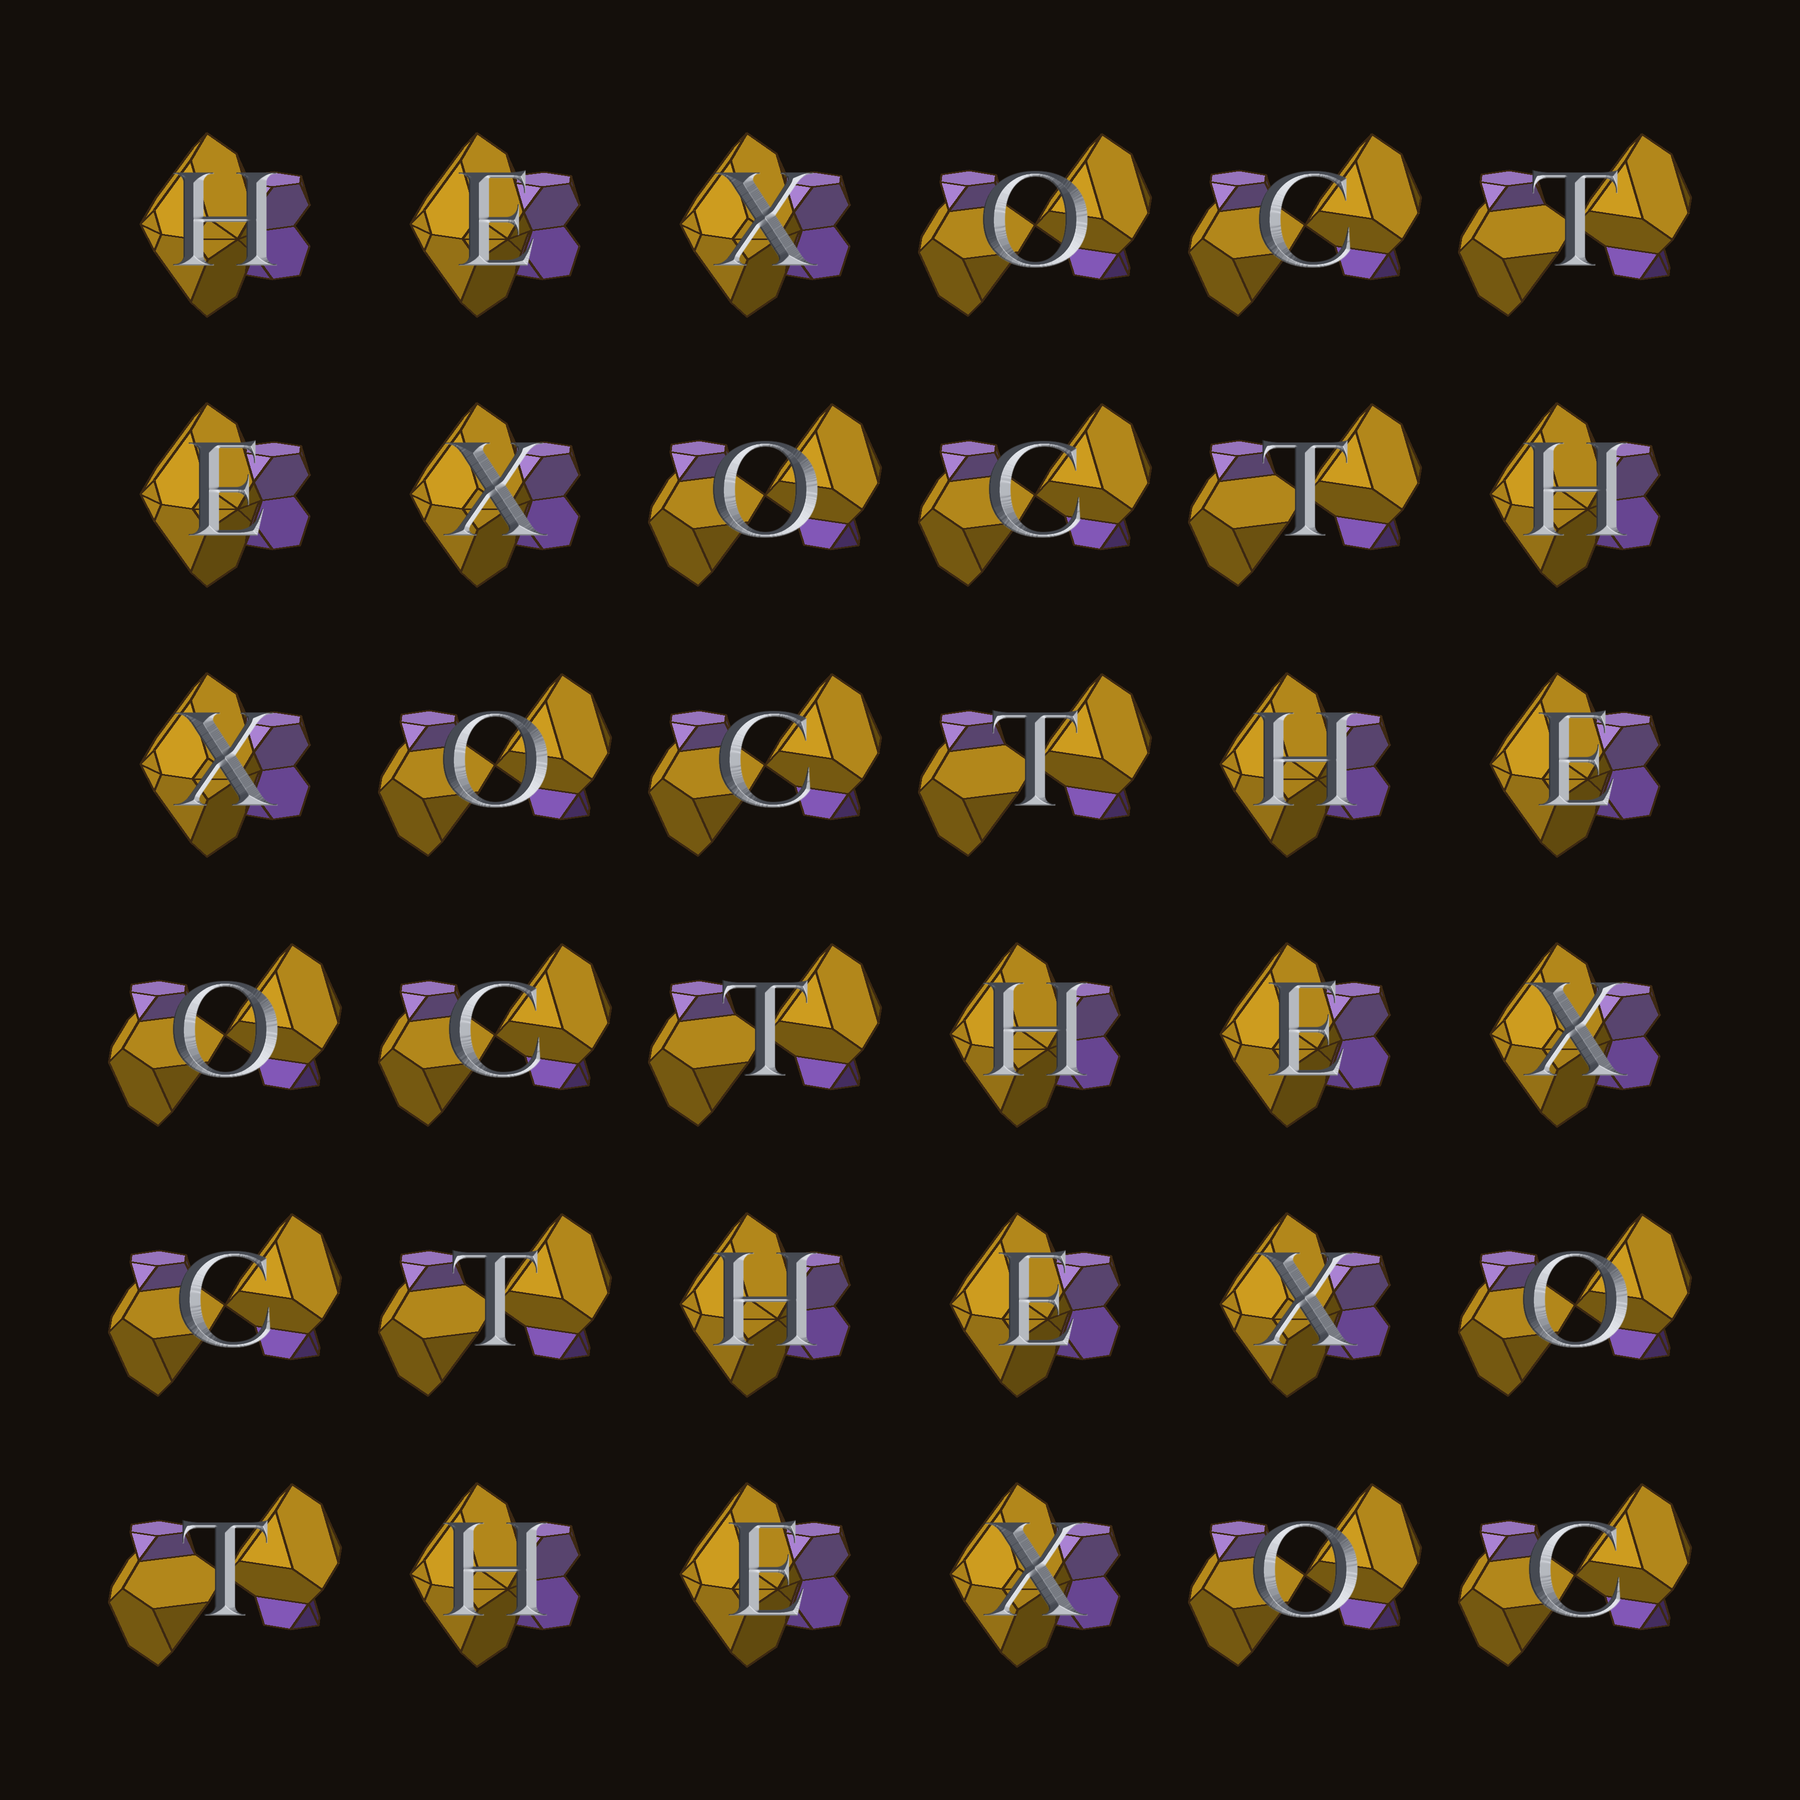
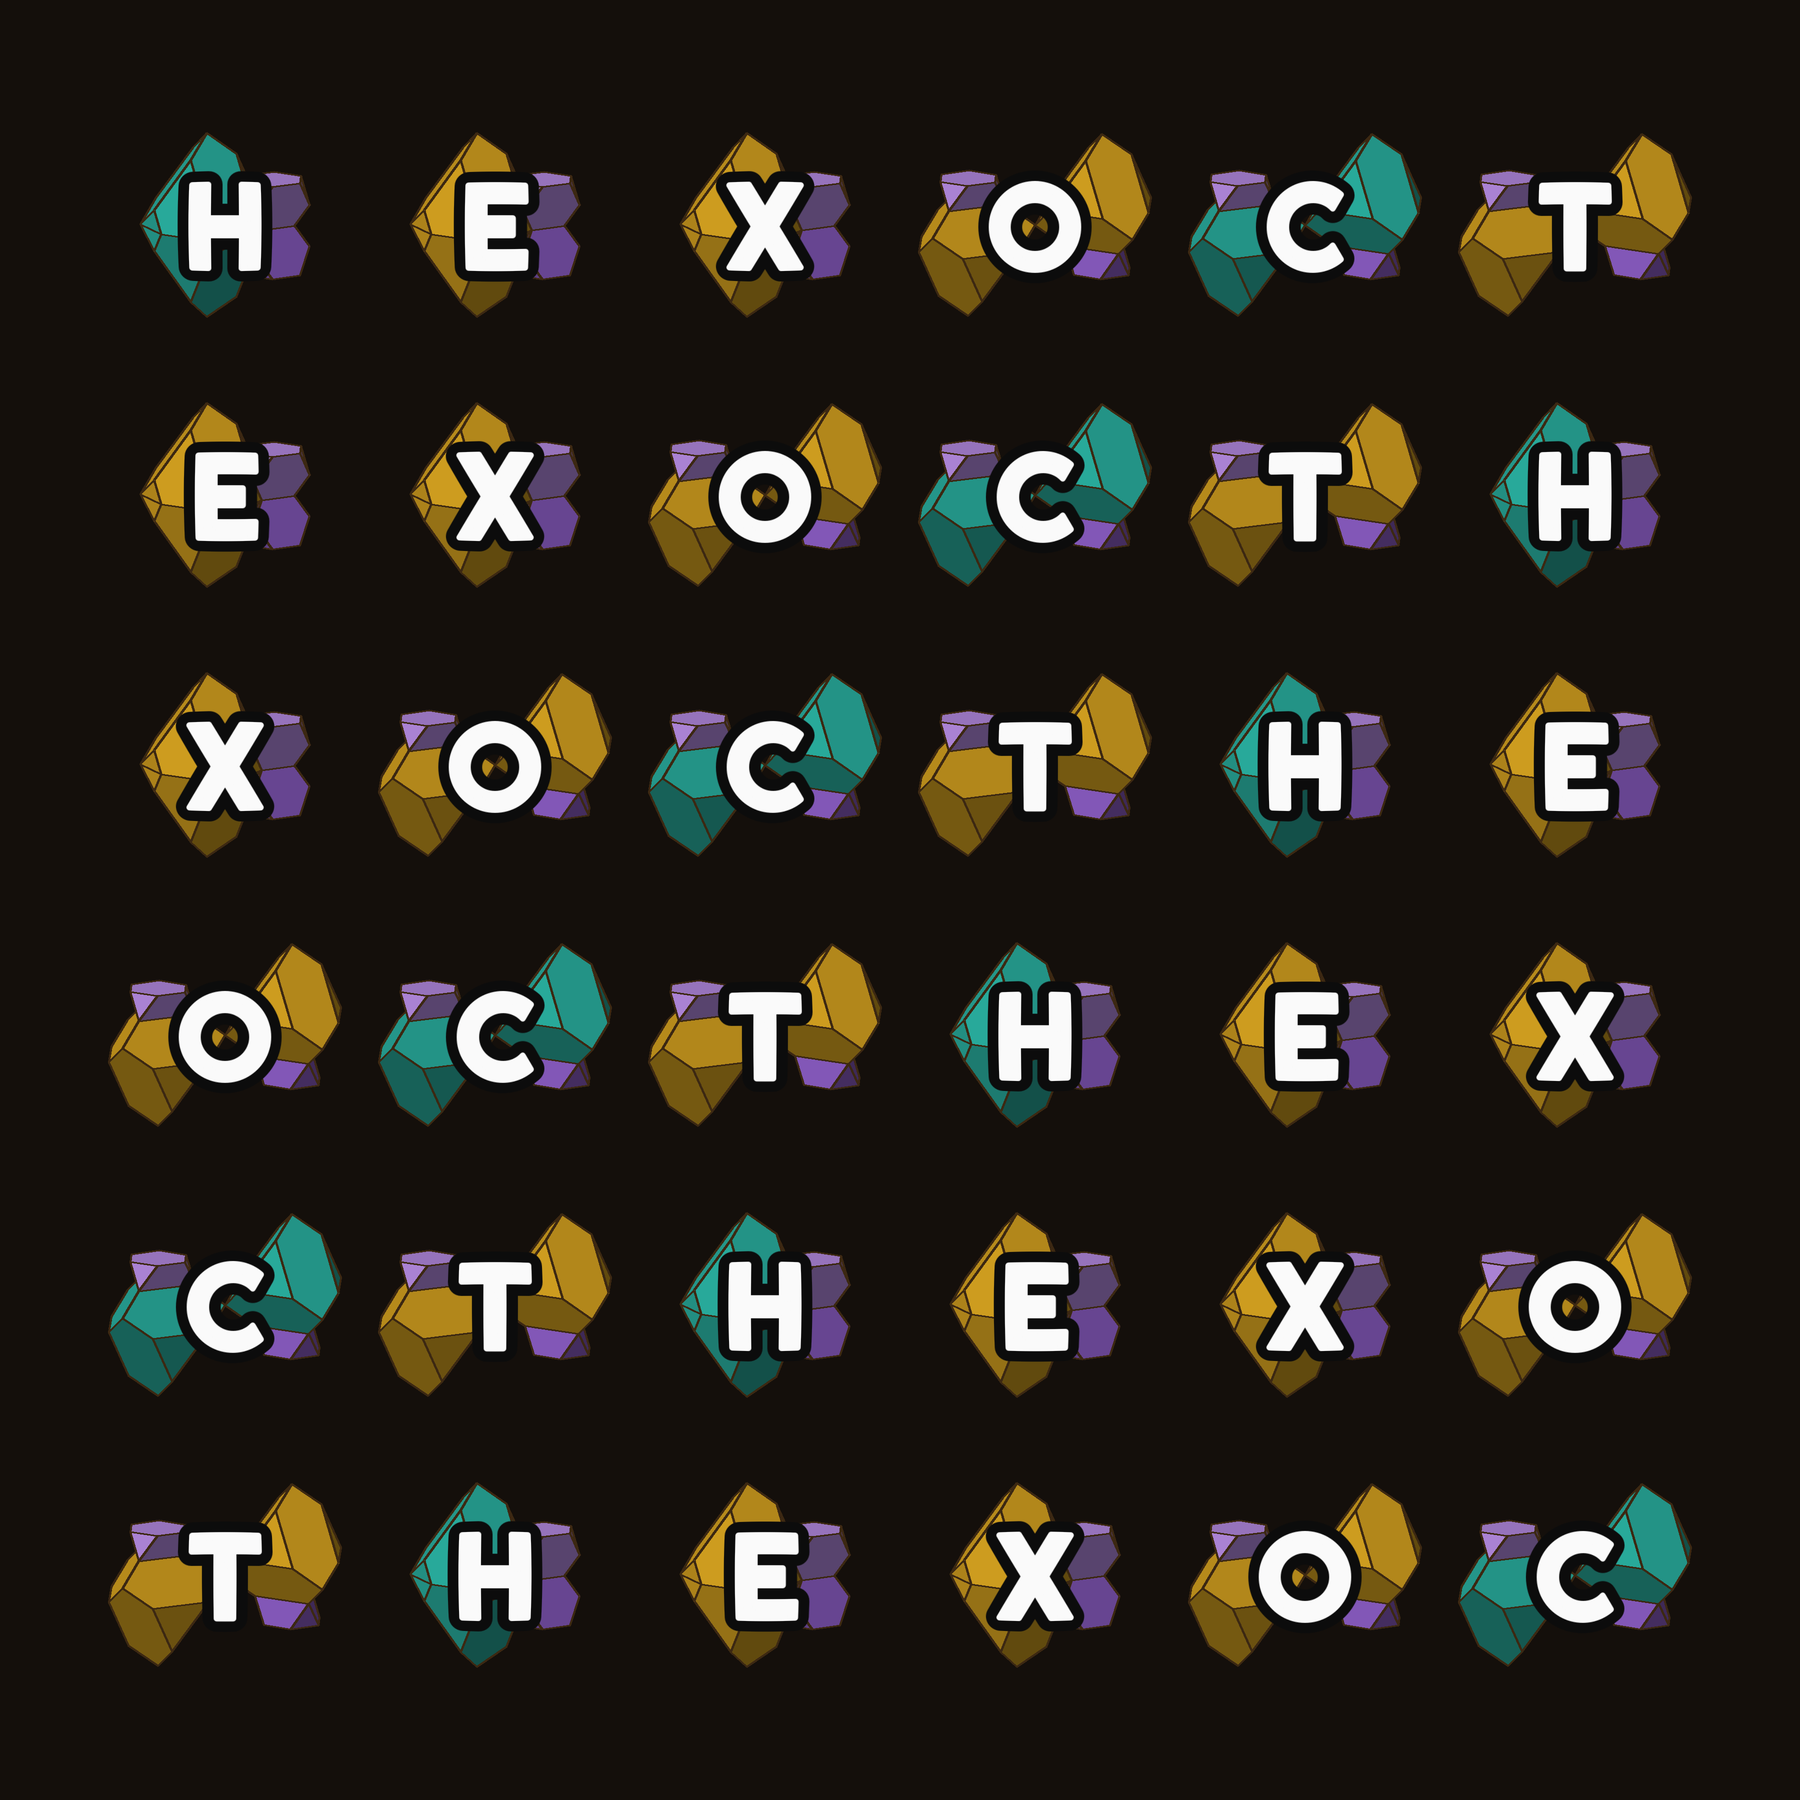
HexOct square v2: B1NR-style lettering, matching tiles in teal (DICTO 10-29)

diff --git a/studies/2026-10-29-hexoct-cover/scripts/hexoct_square.py b/studies/2026-10-29-hexoct-cover/scripts/hexoct_square.py
@@ -1,5 +1,5 @@
 # The HexOct square (DICTO 2026-10-29): book cover for "HexOct: The Laws of Stacking", after the DICTO square, 6 x 6.
-# Cyclic Latin square: row i, column j holds letter (i+j) mod 6 of HEXOCT, so HEXOCT reads across the top and down the left,
+# Letters after the B1NR logo; tiles matching their letter in teal (DICTO). Cyclic Latin square: row i, column j holds letter (i+j) mod 6 of HEXOCT, so HEXOCT reads across the top and down the left,
 # every letter once in each row and column. Shapes: H, E, X on the h-tile, O, C, T on the c-tile (the two HexOct tiles of #75,
 # at weight 1/10, built exactly by tiles.py). Pieces: tetrahedral gold, octahedral halves violet, as in #75.
 import math, os, numpy as np
@@ -37,6 +37,7 @@ for s, ps in T.items():
 span = max(float((hi - lo).max()) for lo, hi in ext.values())
 GROUND = (20, 15, 11); EDGE = (60, 40, 18)
 TONE = {'tet': (217, 165, 33), 'octup': (138, 92, 194), 'octdn': (180, 138, 224)}
+MATCH = (43, 179, 163)   # DICTO 10-29: pick out the cells where the tile matches its letter (H on the h-tile, C on the c-tile)
 N = 1800; SS = 2; W = N * SS; cell = 0.9 * W / 6; sc = 0.86 * cell / span; x0 = 0.05 * W
 light = np.array([-0.4, 0.55, 0.75]); light /= np.linalg.norm(light)
 img = Image.new('RGB', (W, W), GROUND); dr = ImageDraw.Draw(img)
@@ -48,26 +49,27 @@ for i in range(6):
             for nn, Q in sorted(F, key=lambda f: (f[1] @ d).mean()):
                 if nn @ d <= 1e-9: continue
                 b = 0.45 + 0.55 * max(0, (nn @ VIEW.T) @ light)
-                col = tuple(int(c * b) for c in TONE[kind])
+                col = tuple(int(c * b) for c in (MATCH if kind == 'tet' and M[i][j] in 'HC' else TONE[kind]))
                 V = Q @ VIEW.T
                 pts = [(cx + (v[0] - mid[0]) * sc, cy - (v[1] - mid[1]) * sc) for v in V]
                 dr.polygon(pts, fill=col); dr.line(pts + [pts[0]], fill=EDGE, width=2 * SS)
-# Trajan-style initials V-cut and gilded with platinum leaf, as in the DICTO square
-f = ImageFont.truetype('Cinzel.ttf', int(0.074 * W)); f.set_variation_by_name('Bold')
-Lc = np.array([-0.55, 0.6, 0.58]); Lc /= np.linalg.norm(Lc)
+# Letters after the B1NR logo (DICTO 10-29: "sixties distorted script like B1NR logo", the version centred on the spherical
+# security-ring icosidodecahedron, not the zip-tie one): heavy rounded letters (Righteous, OFL), white with a thick black
+# outline, swollen by a gentle bulge (barrel warp) for the sixties look.
+f = ImageFont.truetype('Righteous-Regular.ttf', int(0.056 * W))
 def carved(ch):
-    box = int(0.12 * W); m = Image.new('L', (box, box), 0); ImageDraw.Draw(m).text((box / 2, box / 2), ch, font=f, fill=255, anchor='mm')
-    Mk = np.array(m) / 255.0; ins = Mk > 0.5
-    dist = ndimage.gaussian_filter(ndimage.distance_transform_edt(ins), 0.8); gy, gx = np.gradient(dist); k = 1.6
-    nrm = np.dstack([gx * k, -gy * k, np.ones_like(dist)]); nrm /= np.linalg.norm(nrm, axis=2, keepdims=True)
-    lamb = np.clip(nrm @ Lc, 0, 1); h = np.clip(nrm @ (Lc + [0, 0, 1.0]) / np.linalg.norm(Lc + [0, 0, 1.0]), 0, 1) ** 40
-    dark = np.array([70, 74, 82.]); lite = np.array([226, 229, 235.]); rgb = dark + (lite - dark) * lamb[..., None] ** 1.3
-    rgb = rgb + (255 - rgb) * h[..., None] * 0.8
-    sh = ndimage.shift(ins.astype(float), (-2 * SS * 0.6, 2 * SS * 0.6), order=1); rgb *= (1 - 0.35 * np.clip(ins - sh, 0, 1))[..., None]
-    return Image.fromarray(np.clip(rgb, 0, 255).astype(np.uint8)), Image.fromarray((ndimage.gaussian_filter(Mk, 0.6) * 255).astype(np.uint8)), box
+    box = int(0.13 * W); fat, rim = int(0.0016 * W), int(0.0055 * W)
+    a_ = Image.new('L', (box, box), 0); ImageDraw.Draw(a_).text((box / 2, box / 2), ch, font=f, fill=255, anchor='mm', stroke_width=fat + rim, stroke_fill=255)
+    w_ = Image.new('L', (box, box), 0); ImageDraw.Draw(w_).text((box / 2, box / 2), ch, font=f, fill=255, anchor='mm', stroke_width=fat, stroke_fill=255)
+    A, Wh = np.array(a_, float) / 255, np.array(w_, float) / 255
+    yy, xx = np.mgrid[0:box, 0:box] / (box / 2) - 1; r2 = xx ** 2 + yy ** 2; k = 0.22    # bulge: sample nearer the centre
+    sx, sy = (xx / (1 + k * (1 - np.clip(r2, 0, 1))) + 1) * box / 2, (yy / (1 + k * (1 - np.clip(r2, 0, 1))) + 1) * box / 2
+    A = ndimage.map_coordinates(A, [sy, sx], order=1); Wh = ndimage.map_coordinates(Wh, [sy, sx], order=1)
+    rgb = np.dstack([Wh * 250 + (1 - Wh) * 12] * 3)
+    return Image.fromarray(np.clip(rgb, 0, 255).astype(np.uint8)), Image.fromarray((np.clip(A, 0, 1) * 255).astype(np.uint8)), (box, box)
 CARVE = {ch: carved(ch) for ch in WORD}
 for i in range(6):
     for j in range(6):
-        t, m, box = CARVE[M[i][j]]; cx, cy = x0 + (j + 0.5) * cell, x0 + (i + 0.5) * cell
-        img.paste(t, (int(cx - box / 2), int(cy - box / 2)), m)
+        t, m, (bw, bh) = CARVE[M[i][j]]; cx, cy = x0 + (j + 0.5) * cell, x0 + (i + 0.5) * cell
+        img.paste(t, (int(cx - bw / 2), int(cy - bh / 2)), m)
 img = img.resize((N, N), Image.LANCZOS); img.save('hexoct-square.png'); print('ok')

diff --git a/studies/2026-10-29-hexoct-cover/README.md b/studies/2026-10-29-hexoct-cover/README.md
@@ -2,9 +2,10 @@
 
 DICTO's idea (2026-10-29): a square cover for "HexOct: The Laws of Stacking" like the DICTO square, 6 × 6, letters H E X O C T, with the two HexOct tiles.
 
-**Conclusion:** first version made, hexoct-square.png (1800 px). Status: shown to DICTO, awaiting his read.
+**Conclusion:** version 2 made, hexoct-square.png (1800 px): B1NR-style letters, matching tiles in teal. Status: shown to DICTO, awaiting his read.
 
 - Cyclic Latin square: cell (i, j) holds letter (i + j) mod 6 of HEXOCT. HEXOCT reads across the top and down the left; each letter appears once in every row and every column and runs in one diagonal stripe.
 - Shapes: H, E, X on the h-tile and O, C, T on the c-tile (Hex | Oct). The tiles are the exact c-tile (from ABC) and h-tile (from AB) of #75 at λ = 1/10, built by tiles.py. Colours as in #75: tetrahedral pieces gold, octahedral halves violet. Same view and scale for both tiles.
-- Letters: Trajan-style (Cinzel, OFL), V-cut and gilded with platinum leaf, as in the DICTO square (studies/2026-10-22-dicto-square). No outer lettering.
+- Letters (DICTO 10-29: not classic DICTO Trajan; "a bit sixties distorted script like B1NR logo", the logo centred on the spherical security-ring icosidodecahedron, Flickr album B1NR Sculptures, not the zip-tie version): heavy rounded letters in Righteous (OFL, Righteous-Regular.ttf + OFL-Righteous.txt), white with a thick black outline, swollen by a gentle barrel warp. Tried and dropped: Trajan V-cut platinum (v1), glowing 5 × 7 dot-matrix (hid the tiles).
+- Matches picked out (DICTO): where the tile matches its letter, H on the h-tile and C on the c-tile, the tetrahedral pieces are teal instead of gold: two diagonal stripes, 12 cells.
 - scripts/hexoct_square.py; run on dicto-big-brother (~/geom/bin/python) from scripts/.
